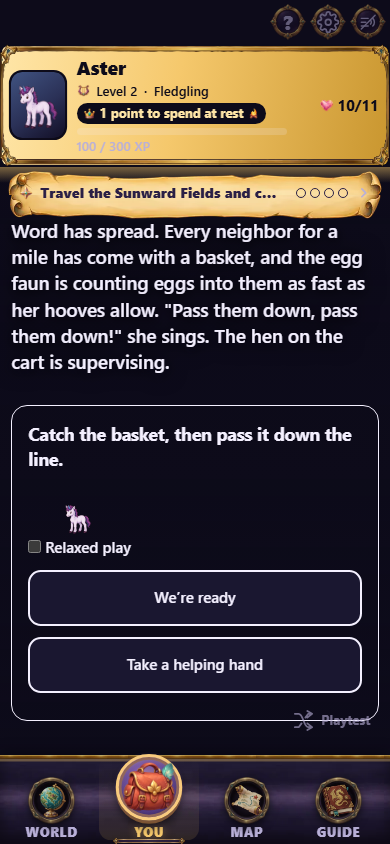
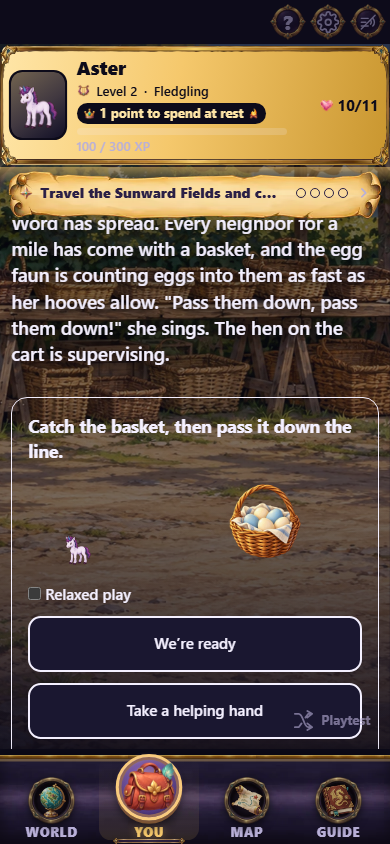
Improve Gemfall pilot review captures

diff --git a/e2e/gemfall-art-shot.spec.ts b/e2e/gemfall-art-shot.spec.ts
@@ -84,6 +84,18 @@ test("photograph Gemfall chapter 02 art and relaxed tracking on TV and phone", a
     await expect(tvWorld.locator(".painted-cover__glow")).toBeVisible();
     await expect(tvWorld.locator(".painted-cover__peek")).toHaveCount(0);
     await expect(phoneControls.locator(".painted-cover__glow")).toBeVisible();
+    const glow = phoneControls.locator(".painted-cover__glow");
+    const front = phoneControls.locator(".painted-cover__front").first();
+    const [glowZ, frontZ, glowBox, frontBox] = await Promise.all([
+      glow.evaluate((element) => Number(getComputedStyle(element).zIndex)),
+      front.evaluate((element) => Number(getComputedStyle(element).zIndex)),
+      glow.boundingBox(),
+      front.boundingBox(),
+    ]);
+    expect(glowZ).toBeGreaterThan(frontZ);
+    expect(glowBox).not.toBeNull();
+    expect(frontBox).not.toBeNull();
+    expect(glowBox!.width).toBeGreaterThan(frontBox!.width);
     await expect(phoneControls.getByRole("button", { name: /Lift the hat:/ })).toHaveCount(3);
     const hatChoice = phoneControls.getByRole("button", { name: "Lift the hat: Left hat" });
     await hatChoice.scrollIntoViewIfNeeded();
@@ -95,10 +107,30 @@ test("photograph Gemfall chapter 02 art and relaxed tracking on TV and phone", a
     await phone.screenshot({ path: `${SHOTS}/chapter02-hats-relaxed-phone.png`, fullPage: true });
 
     await send(phone, code, { type: "PLAYTEST_GOTO", sceneId: "interaction_egg_baskets" });
-    await expect(phoneControls.locator('img[src="/assets/story-props/prop_egg_basket.webp"]')).toBeVisible();
-    await expect(phoneControls.getByRole("button", { name: "We’re ready" })).toBeVisible();
-    await expect(phoneControls.getByRole("checkbox", { name: "Relaxed play" })).toBeVisible();
+    const readyButton = phoneControls.getByRole("button", { name: "We’re ready" });
+    await expect(readyButton).toBeVisible();
+    const basket = phoneControls.locator('.interaction-art__main[src="/assets/story-props/prop_egg_basket.webp"]');
+    await expect(basket).toBeVisible();
+    await basket.evaluate(async (element) => {
+      const image = element as HTMLImageElement;
+      await image.decode();
+      if (!image.complete || image.naturalWidth === 0) throw new Error("Egg-basket prop did not decode");
+    });
+    const basketBox = await basket.boundingBox();
+    expect(basketBox).not.toBeNull();
+    expect(basketBox!.width).toBeGreaterThan(80);
+    expect(basketBox!.height).toBeGreaterThan(80);
+    const basketArt = basket.locator("xpath=ancestor::div[contains(@class,'interaction-art')]");
+    const basketHero = await basketArt.locator(".interaction-art__hero").boundingBox();
+    expect(basketHero).not.toBeNull();
+    expect(basketBox!.x).toBeGreaterThan(basketHero!.x + basketHero!.width);
+    const helpButton = phoneControls.getByRole("button", { name: "Take a helping hand" });
+    await expect(readyButton).toBeInViewport();
+    await expect(helpButton).toBeInViewport();
     await phone.screenshot({ path: `${SHOTS}/chapter02-egg-basket-phone.png`, fullPage: true });
+    await readyButton.click();
+    await expect(phoneControls.getByRole("button", { name: /basket/ })).toBeVisible();
+    await expect(helpButton).toBeVisible();
   } finally {
     await Promise.all(contexts.map((context) => context.close().catch(() => undefined)));
   }

diff --git a/packages/client/src/screens/InteractionArt.tsx b/packages/client/src/screens/InteractionArt.tsx
@@ -68,6 +68,7 @@ export function PaintedInteraction({prompt,party,now}:{prompt:InteractionPrompt;
   style.left=(15+(index/Math.max(1,party.length))*70)+"%";
   style.top=prompt.caughtBy===holder?"44%":"35%";
  }
+ if(state?.sceneId==="interaction_egg_baskets"&&primary==="prop_egg_basket"){style.left="70%";style.top="48%";}
  if(spec.kind==="cooperate" && primary) {
   const supported=supportsReady(prompt,connected,new Date(now).toISOString());
   style.top=supported?"40%":"60%";
@@ -77,7 +78,7 @@ export function PaintedInteraction({prompt,party,now}:{prompt:InteractionPrompt;
  if(spec.kind==="play")style.filter=prompt.reactions?.length?"drop-shadow(0 0 6px #e6c878)":"none";
  const extras=state?.sceneId==="hatch_party"?["skupper_child","skupper_grandmother","skupper_weaver"]:state?.sceneId==="camp_play"&&state.chapterId==="riftlight-sky-islands-arrival"?["camp_hen"]:[];
  const reaction=reactionFigure(state?.sceneId??null,prompt,elapsed,chapter);
- return <div className="interaction-art" aria-hidden="true" data-kind={spec.kind} data-still={still} data-phase={prompt.phase} key={prompt.openedSeq+":"+prompt.attempt}>
+ return <div className="interaction-art" aria-hidden="true" data-kind={spec.kind} data-scene={state?.sceneId??undefined} data-still={still} data-phase={prompt.phase} key={prompt.openedSeq+":"+prompt.attempt}>
   {props.slice(1).map((id,index)=><Picture key={id} id={id} className="interaction-art__support" style={{left:(spec.kind==="precision"?10+spec.target*80:id==="fight-signal-pole"||id==="rope-basket"?85:15+index*70/Math.max(1,props.length-2))+"%",top:"58%"}} />)}
   {primary&&<Picture id={primary} style={style} className="interaction-art__main" />}
   {extras.map((id,index)=><img key={id} className="interaction-art__extra" src={"/assets/cast/"+id+"/assembled.png"} alt="" style={{left:(10+index*65/Math.max(1,extras.length-1))+"%"}} />)}

diff --git a/packages/client/src/screens/InteractionArt.css b/packages/client/src/screens/InteractionArt.css
@@ -12,7 +12,7 @@
 .painted-cover{position:relative;display:block;inline-size:5em;block-size:4em;transform:translateX(-50%)}
 .painted-cover img{position:absolute;inline-size:100%;block-size:100%;object-fit:contain;left:0;bottom:0}
 .painted-cover .painted-cover__peek{bottom:18%;clip-path:inset(0 0 30% 0)}
-.painted-cover__glow{position:absolute;z-index:1;left:50%;bottom:18%;inline-size:2.8em;block-size:2.8em;transform:translateX(-50%);border-radius:50%;background:radial-gradient(circle,rgba(255,250,203,.98) 0%,rgba(255,225,112,.82) 28%,rgba(255,184,57,.3) 58%,transparent 74%);filter:blur(.06em)}
+.painted-cover__glow{position:absolute;z-index:3;left:50%;bottom:5%;inline-size:6em;block-size:6em;transform:translateX(-50%);border-radius:50%;background:radial-gradient(circle,rgba(255,250,203,.12) 0%,rgba(255,225,112,.32) 28%,rgba(255,184,57,.5) 43%,rgba(255,184,57,.16) 59%,transparent 72%);mix-blend-mode:screen;pointer-events:none}
 .painted-cover__front{z-index:2}
 .painted-cover__fallback{position:absolute;z-index:2;left:12%;bottom:0;inline-size:76%;block-size:72%;border-radius:48% 48% 18% 18%;background:linear-gradient(145deg,#e4dfd2,#a8a294);box-shadow:inset -0.35em -0.2em 0 #817f78,0 0.12em 0.2em #242a31}
 .painted-cover>.kad-icon{position:absolute;inset:0;inline-size:100%;block-size:100%;object-fit:contain;z-index:2}
@@ -31,3 +31,5 @@
 
 .story-interaction__covers--painted{height:8em!important}
 .story-interaction__covers--painted .story-interaction__tracking-help{position:absolute;inset-inline:0;top:auto;bottom:0;padding:0;text-align:center;line-height:1.2}
+.interaction-art[data-scene=interaction_egg_baskets]{block-size:clamp(8em,20cqh,12em)}
+.interaction-art[data-scene=interaction_egg_baskets] .interaction-art__main{inline-size:clamp(6em,22cqw,9em);left:70%;top:48%}

diff --git a/packages/client/src/screens/story-interaction.test.tsx b/packages/client/src/screens/story-interaction.test.tsx
@@ -45,6 +45,7 @@ describe("reusable story controls", () => {
     const { container } = render(<StoryInteractionWorld />);
     expect(container.querySelectorAll(".painted-cover img[alt='']")).toHaveLength(3);
     expect(container.querySelector(".painted-cover__peek")).toBeNull();
+    expect(container.querySelector(".painted-cover__glow")).toBeNull();
     expect(screen.getByText("Left")).toBeTruthy();
   });
   it("uses a neutral reveal for authored covers in relaxed mode", () => {

diff --git a/docs/review/gemfall-01-02-pilot/README.md b/docs/review/gemfall-01-02-pilot/README.md
@@ -18,8 +18,10 @@ cover. The phone capture keeps the pick control above the fixed navigation.
 |---|---|
 | ![Jackalope hat tracking on TV](chapter02-hats-relaxed-tv.png) | ![Jackalope hat tracking on phone](chapter02-hats-relaxed-phone.png) |
 
-The egg-basket phone capture shows the authored prop alongside the ready and
-help controls:
+The relaxed reveal has a visible gold halo over the tracked hat. The egg-basket
+phone capture shows the decoded prop clear of the hero, with the ready and help
+controls in view. The capture check also starts the relay and confirms its catch
+control remains available:
 
 ![Egg-basket interaction on phone](chapter02-egg-basket-phone.png)
 
@@ -55,4 +57,4 @@ Original generated PNGs remain in the local Codex image output directory. Produc
 - `npm run content:validate`: 117 checks passed; chapter scene graphs remain valid.
 - `npm run typecheck` and `npm run build`: passed.
 - `npm run perf:bundle`: first paint 319/320 KB; total 1460/1460 KB.
-- `e2e/gemfall-art-shot.spec.ts`: TV/phone relaxed tracking and phone prop/control capture.
+- `e2e/gemfall-art-shot.spec.ts`: TV/phone relaxed tracking and phone decoded-prop, ready/help, and active-relay control capture.
